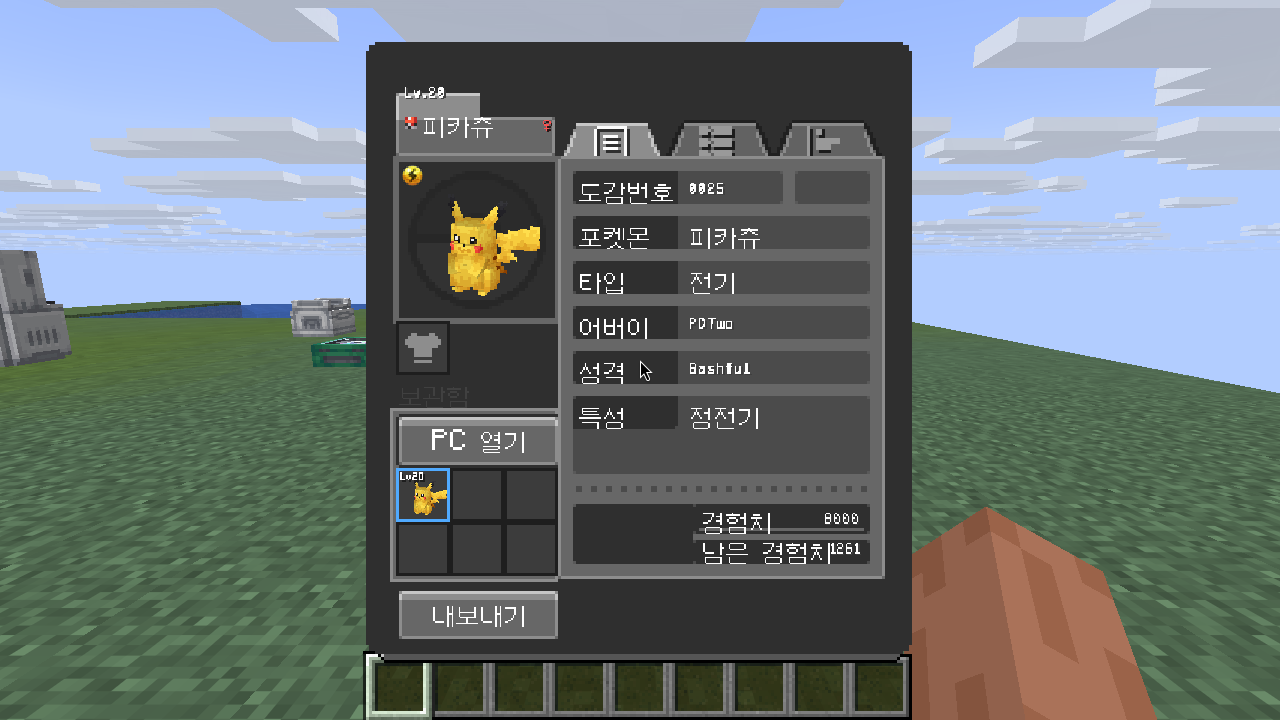
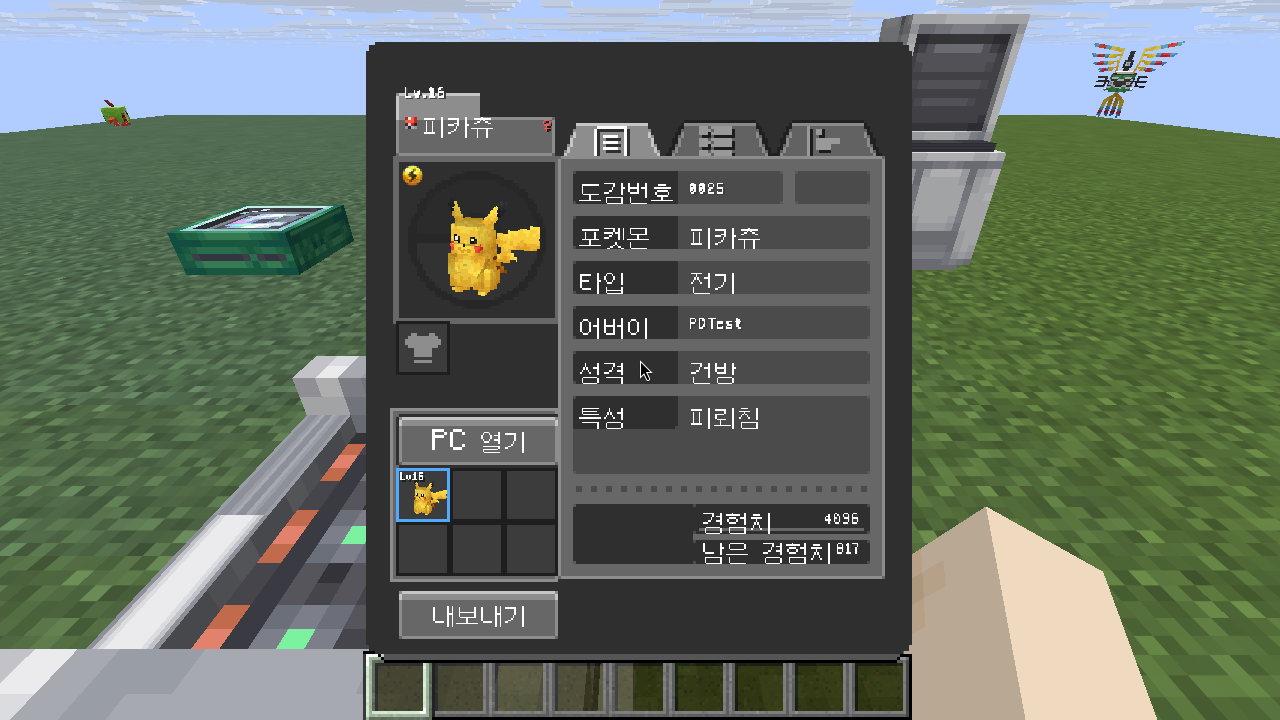
Fixes: EV berry message and no-effect, BetterModel update notice off, natures / box names / stat labels / PC info localised
Claude-Session: https://claude.ai/code/session_013qmVWfL2vttKu2B98Mqwws

diff --git a/plugin/src/main/java/io/github/kahngjoonkoh/cobblemonlink/PcScreen.java b/plugin/src/main/java/io/github/kahngjoonkoh/cobblemonlink/PcScreen.java
@@ -95,7 +95,7 @@ final class PcScreen {
             return;
         }
         boolean art = !Ui.bedrock(p) && Ui.pcWidths != null;
-        Menu m = art ? new Menu(45, title(d, v)) : new Menu(54, Component.text(boxName(d, v.box) + "  " + (v.box + 1) + "/" + d.boxes.size()));
+        Menu m = art ? new Menu(45, title(p, d, v)) : new Menu(54, Component.text(boxName(p, d, v.box) + "  " + (v.box + 1) + "/" + d.boxes.size()));
         Store.Box box = d.boxes.get(v.box);
         for (int s = 0; s < Store.BOX; s++) {
             Loc at = new Loc(v.box, s);
@@ -124,7 +124,7 @@ final class PcScreen {
                     "Show: " + (v.type == null ? "all types" : pl.dex.label("type", v.type)), List.of("Click: next type, right-click: back")), null);
             m.set(PREV, Menu.icon(Material.ARROW, Ui.tr(p, "cobblemonlink.ui.prev_box", "Previous box"), List.of()), null);
             m.set(NEXT, Menu.icon(Material.ARROW, Ui.tr(p, "cobblemonlink.ui.next_box", "Next box"), List.of()), null);
-            m.set(47, Menu.icon(Material.NAME_TAG, boxName(d, v.box), List.of("Click: rename, wallpaper")), null);
+            m.set(47, Menu.icon(Material.NAME_TAG, boxName(p, d, v.box), List.of("Click: rename, wallpaper")), null);
             if (v.selected != null && v.confirm) {
                 m.set(YES, Menu.icon(Material.LIME_WOOL, "Yes, release " + v.selected.name(pl.dex, CobblemonLink.loc(p)), List.of()), null);
                 m.set(NO, Menu.icon(Material.RED_WOOL, "No", List.of()), null);
@@ -172,9 +172,9 @@ final class PcScreen {
 
     private boolean shown(View v, Mon m) { return v.type == null || pl.dex.of(m).types.contains(v.type); }
 
-    private String boxName(Store.Data d, int box) {
+    private String boxName(Player p, Store.Data d, int box) {
         String n = d.boxes.get(box).name;
-        return n == null || n.isBlank() ? "Box " + (box + 1) : n;
+        return n == null || n.isBlank() ? Ui.lang.get(CobblemonLink.loc(p), "cobblemon.ui.pc.box.title", box + 1) : n;
     }
 
     private View view(Player p) { return views.computeIfAbsent(p.getUniqueId(), k -> new View()); }
@@ -337,7 +337,7 @@ final class PcScreen {
         if (Ui.bedrock(p) && Forms.available()) {
             List<String> names = new ArrayList<>(List.of("Default"));
             for (int i = 0; i < WALLPAPERS.size(); i++) names.add(locked(d, i) ? "???" : WALLPAPER_NAMES.get(i));
-            Forms.boxSettings(p, boxName(d, boxIndex), box.name == null ? "" : box.name, names, box.wallpaper + 1, (name, w) -> pl.onMain(() -> {
+            Forms.boxSettings(p, boxName(p, d, boxIndex), box.name == null ? "" : box.name, names, box.wallpaper + 1, (name, w) -> pl.onMain(() -> {
                 if (name != null) {
                     box.name = name.isBlank() ? null : name.strip();
                     if (box.name != null && box.name.length() > 16) box.name = box.name.substring(0, 16);
@@ -366,7 +366,7 @@ final class PcScreen {
         }), once)).build();
         ActionButton cancel = ActionButton.builder(Component.text("Cancel")).action(DialogAction.customClick((resp, who) -> pl.onMain(() -> show(p, v)), once)).build();
         p.closeInventory();
-        p.showDialog(Dialog.create(f -> f.empty().base(DialogBase.builder(Component.text(boxName(d, boxIndex))).canCloseWithEscape(true)
+        p.showDialog(Dialog.create(f -> f.empty().base(DialogBase.builder(Component.text(boxName(p, d, boxIndex))).canCloseWithEscape(true)
                 .inputs(List.of(DialogInput.text("name", Component.text("Name")).initial(box.name == null ? "" : box.name).maxLength(16).build(),
                         DialogInput.singleOption("wallpaper", Component.text("Wallpaper"), opts).build())).build())
                 .type(DialogType.confirmation(done, cancel))));
@@ -393,16 +393,16 @@ final class PcScreen {
         Runnable stay = () -> show(p, v);
         o.add(new Battle.Opt("<", "none", () -> page(p, -1)));
         o.add(new Battle.Opt(">", "none", () -> page(p, 1)));
-        o.add(new Battle.Opt(boxName(d, v.box), "none", () -> rename(p)));
+        o.add(new Battle.Opt(boxName(p, d, v.box), "none", () -> rename(p)));
         o.add(new Battle.Opt(v.type == null ? Ui.tr(p, "cobblemon.ui.pc.filter", "Filter") : pl.dex.label("type", v.type, CobblemonLink.loc(p)), "none", () -> filter(p, false)));
         o.add(new Battle.Opt(" ", v.sort < 0 ? "pc/sort_options" : "pc/sort_" + List.of("name", "level", "type", "pokedex_number", "gender").get(v.sort), () -> sort(p)));
         o.add(new Battle.Opt(sel != null && !v.confirm ? Ui.tr(p, "cobblemon.ui.pc.release", "Release") : "", "none", () -> release(p, true)));
-        o.add(new Battle.Opt(sel != null && v.confirm ? "Yes" : "", "none", () -> release(p, true)));
-        o.add(new Battle.Opt(sel != null && v.confirm ? "No" : "", "none", () -> release(p, false)));
+        o.add(new Battle.Opt(sel != null && v.confirm ? Ui.tr(p, "cobblemonlink.ui.yes", "Yes") : "", "none", () -> release(p, true)));
+        o.add(new Battle.Opt(sel != null && v.confirm ? Ui.tr(p, "cobblemonlink.ui.no", "No") : "", "none", () -> release(p, false)));
         o.add(new Battle.Opt("", "pc/wall/" + WALLPAPERS.get(box.wallpaper < 0 ? 4 : box.wallpaper), stay));
         Integer body = sel == null ? null : Ui.bodies.get(sel.model(pl.dex));
         o.add(new Battle.Opt(sel == null ? "" : "Lv. " + sel.level, body == null ? "none" : "body/" + Ui.bedrockName(sel.model(pl.dex)), stay));
-        o.add(new Battle.Opt(sel == null ? "" : sel.nature, "none", stay));
+        o.add(new Battle.Opt(sel == null ? "" : Ui.nature(p, sel.nature), "none", stay));
         o.add(new Battle.Opt(sel == null ? "" : pl.dex.label("ability", sel.ability), "none", stay));
         for (int k = 0; k < 4; k++)
             o.add(new Battle.Opt(sel == null || k >= sel.moves.size() ? "" : pl.dex.label("move", sel.moves.get(k)), "none", stay));
@@ -432,7 +432,7 @@ final class PcScreen {
 
     // ---- the picture ----
 
-    Component title(Store.Data d, View v) {
+    Component title(Player p, Store.Data d, View v) {
         Ui.Title t = new Ui.Title();
         glyph(t, 0, 0, BASE, 7);
         Store.Box box = d.boxes.get(v.box);
@@ -444,18 +444,18 @@ final class PcScreen {
         for (int i = 0; i < d.party.size(); i++) cell(t, slotX(7 + i % 2), slotY(i / 2), d.party.get(i), d.party.get(i) == v.selected);
         glyph(t, slotX(7) + 3, slotY(4) + 4, (char) (SORT + Math.max(0, v.sort)), 7);
         glyph(t, slotX(8) + 3, slotY(4) + 4, v.type == null ? FILTER_ALL : (char) (TYPE_FILTER + Ui.TYPES.indexOf(v.type)), 7);
-        text(t, "pc_label", 64, 130, boxName(d, v.box), true);
+        text(t, "pc_label", 64, 130, boxName(p, d, v.box), true);
         if (v.selected != null) {
             if (v.confirm) {
                 glyph(t, slotX(7), 131, HALF, 7);
                 glyph(t, slotX(8), 131, HALF, 7);
-                text(t, "pc_label", slotX(7) + 8.5, 134, "Yes", true);
-                text(t, "pc_label", slotX(8) + 8.5, 134, "No", true);
+                text(t, "pc_label", slotX(7) + 8.5, 134, Ui.tr(p, "cobblemonlink.ui.yes", "Yes"), true);
+                text(t, "pc_label", slotX(8) + 8.5, 134, Ui.tr(p, "cobblemonlink.ui.no", "No"), true);
             } else {
                 glyph(t, slotX(7), 131, RELEASE, 7);
-                text(t, "pc_label", slotX(7) + 17, 134, "Release", true);
+                text(t, "pc_label", slotX(7) + 17, 134, Ui.tr(p, "cobblemon.ui.pc.release", "Release"), true);
             }
-            info(t, v.selected, v.confirm);
+            info(p, t, v.selected, v.confirm);
         }
         return t.build();
     }
@@ -471,26 +471,33 @@ final class PcScreen {
     }
 
     /** The info strip: the name card (Lv tab, ball, name, gender), the whole Pokémon, Type / Nature / Ability / Moves. */
-    private void info(Ui.Title t, Mon m, boolean confirm) {
+    private void info(Player p, Ui.Title t, Mon m, boolean confirm) {
         Dex.Species s = pl.dex.of(m);
         text(t, "pc_bold", 7, 147, "Lv." + m.level, false);
         glyph(t, 5, 155, BALL, 6);
-        text(t, "pc_bold", 12, 155, confirm ? "Release?" : m.name(pl.dex), false);
+        text(t, "pc_bold", 12, 155, confirm ? Ui.tr(p, "cobblemonlink.ui.release_q", "Release?") : m.name(pl.dex, CobblemonLink.loc(p)), false);
         if (!m.gender.isEmpty()) glyph(t, 48, 157, "M".equals(m.gender) ? MALE : FEMALE, 4);
         Integer b = Ui.bodies.get(m.model(pl.dex));
         if (b != null) put(t, 6, 166, Component.text(Character.toString(0xF9000 + b)).font(Key.key("cobblemonlink", "body_big")), 45, 7);
-        String typeNames = String.join(" / ", s.types.stream().map(ty -> pl.dex.label("type", ty)).toList());
-        String[][] rows = {{"Type", typeNames}, {"Nature", m.nature}, {"Ability", pl.dex.label("ability", m.ability)},
-                {"Moves", String.join(", ", m.moves.stream().map(mv -> pl.dex.label("move", mv)).toList())}};
+        String loc = CobblemonLink.loc(p), typeNames = String.join(" / ", s.types.stream().map(ty -> pl.dex.label("type", ty, loc)).toList());
+        String[][] rows = {{Ui.tr(p, "cobblemon.ui.info.type", "Type"), typeNames}, {Ui.tr(p, "cobblemon.ui.info.nature", "Nature"), Ui.nature(p, m.nature)},
+                {Ui.tr(p, "cobblemon.ui.info.ability", "Ability"), pl.dex.label("ability", m.ability, loc)},
+                {Ui.tr(p, "cobblemon.ui.moves", "Moves"), String.join(", ", m.moves.stream().map(mv -> pl.dex.label("move", mv, loc)).toList())}};
         for (int i = 0; i < rows.length; i++) {
             int y = 152 + 3 + 15 * i;
-            text(t, "pc_bold", 57, y, rows[i][0], false);
-            String value = fit("pc_text", plain(rows[i][1]), 121 - (i == 0 ? 16 : 0));
-            text(t, "pc_text", 57, y + 7, value, false);
+            boolean wide = (rows[i][0] + rows[i][1]).chars().anyMatch(c -> Ui.wide((char) c));
+            String value = fit("pc_text", rows[i][1], 121 - (i == 0 ? 16 : 0) - (wide ? (int) Ui.width(rows[i][0]) + 6 : 0));
+            if (wide) { // Minecraft's font is too tall for two lines a row: label and value side by side
+                text(t, "pc_bold", 57, y + 3, rows[i][0], false);
+                text(t, "pc_text", 57 + Ui.width(rows[i][0]) + 6, y + 3, value, false);
+            } else {
+                text(t, "pc_bold", 57, y, rows[i][0], false);
+                text(t, "pc_text", 57, y + 7, value, false); // text() plains it
+            }
             if (i == 0) {
-                double x = 57 + width("pc_text", value) + 3;
+                double x = 57 + (wide ? Ui.width(rows[i][0]) + 6 : 0) + width("pc_text", value) + 3;
                 for (String ty : s.types) {
-                    glyph(t, x, y + 7, (char) (TYPE_INFO + Ui.TYPES.indexOf(ty)), 7);
+                    glyph(t, x, y + (wide ? 3 : 7), (char) (TYPE_INFO + Ui.TYPES.indexOf(ty)), 7);
                     x += 8;
                 }
             }
@@ -534,6 +541,7 @@ final class PcScreen {
     /** Width as text() lays it out: each advance less 1. */
     static double width(String font, String s) {
         double w = 0;
+        if (s.chars().anyMatch(c -> Ui.wide((char) c))) return Ui.width(s); // text() draws it all in Minecraft's font
         for (char c : s.toCharArray()) w += width(font, c) - 1;
         return w;
     }

diff --git a/plugin/src/main/java/io/github/kahngjoonkoh/cobblemonlink/SummaryScreen.java b/plugin/src/main/java/io/github/kahngjoonkoh/cobblemonlink/SummaryScreen.java
@@ -230,6 +230,7 @@ final class SummaryScreen {
             PAGE_STATS = '', MOVE = '', MOVE_SEL = '', EVOLVE_PLATE = '', PLATE = '', SHINY = '', // build_summary.py
             BALL = '', MALE = '', FEMALE = '', RING = '', TYPE_INFO = '', BAR = ''; // build_pc.py, build_dex.py
     private static final String[] SHORT = {"HP", "Atk", "Def", "SpA", "SpD", "Spe"};
+    private static final String[] SHORT_KEYS = {"hp", "atk", "def", "sp_atk", "sp_def", "speed"}; // cobblemonlink.ui.stat_short.*: Cobblemon's own labels are too wide for the column
     private static final java.util.Map<java.util.UUID, Integer> picked = new java.util.HashMap<>(); // Moves: the move to swap
 
     private static boolean art(Player p) {
@@ -406,16 +407,16 @@ final class SummaryScreen {
                 for (int k = 0; k < 6; k++) {
                     int ry = py + 5 + 17 * k;
                     int n = nature(m.mint != null ? m.mint : m.nature, k);
-                    PcScreen.text(t, "pc_bold", px + 7, ry + 4, SHORT[k] + (n > 0 ? "+" : n < 0 ? "-" : ""), false);
+                    PcScreen.text(t, "pc_bold", px + 7, ry + 4, Ui.tr(p, "cobblemonlink.ui.stat_short." + SHORT_KEYS[k], SHORT[k]) + (n > 0 ? "+" : n < 0 ? "-" : ""), false);
                     PcScreen.text(t, "pc_text", px + 44, ry + 4, (k == 0 ? m.hp(pl.dex) + "/" : "") + st[k], false);
                     int w = Math.max(1, Math.min(22, st[k] * 22 / Math.max(1, most))); // the strongest stat fills it
                     if (k > 0) PcScreen.glyph(t, px + 62, ry + 5, (char) (BAR + w - 1), 3);
                     PcScreen.text(t, "pc_text", px + 104 - PcScreen.width("pc_text", "IV " + m.ivs[k]), ry + 4, "IV " + m.ivs[k], false);
                 }
-                PcScreen.text(t, "pc_bold", px + 7, py + 110, "Nature: " + m.nature, false);
+                PcScreen.text(t, "pc_bold", px + 7, py + 110, Ui.tr(p, "cobblemon.ui.info.nature", "Nature") + ": " + Ui.nature(p, m.mint != null ? m.mint : m.nature), false);
                 int up = 0, down = 0;
                 for (int k = 1; k < 6; k++) { if (nature(m.mint != null ? m.mint : m.nature, k) > 0) up = k; if (nature(m.mint != null ? m.mint : m.nature, k) < 0) down = k; }
-                PcScreen.text(t, "pc_text", px + 7, py + 118, up == 0 ? "No stat changes" : "Raises " + STAT_NAMES[up] + ", lowers " + STAT_NAMES[down], false);
+                PcScreen.text(t, "pc_text", px + 7, py + 118, up == 0 ? Ui.tr(p, "cobblemonlink.ui.nature_neutral", "No stat changes") : Ui.lang.get(CobblemonLink.loc(p), "cobblemonlink.ui.nature_effect", statName(p, up), statName(p, down)), false);
             }
             default -> {
                 PcScreen.glyph(t, px, py, PAGE_INFO, 7);

diff --git a/plugin/src/main/java/io/github/kahngjoonkoh/cobblemonlink/Items.java b/plugin/src/main/java/io/github/kahngjoonkoh/cobblemonlink/Items.java
@@ -222,6 +222,10 @@ final class Items {
             }
             pickPokemon(p, pl.t(p, "cobblemonlink.item.give_to", name(p, id)), party, m -> true, m -> {
                 if (!stack.isSimilar(p.getInventory().getItemInMainHand())) return;
+                if (d.kind.equals("berry") && d.stat != null && !canUse(d, m)) { // nothing to lower: says so, keeps the berry
+                    p.sendMessage(Component.text(pl.t(p, "cobblemonlink.item.no_effect"), NamedTextColor.RED));
+                    return;
+                }
                 if (d.kind.equals("berry") && canUse(d, m)) { // a berry it can eat now is eaten
                     if (d.pp > 0) pickMove(p, d.name, m, move -> apply(p, null, id, d, m, move));
                     else apply(p, null, id, d, m, null);
@@ -311,7 +315,7 @@ final class Items {
             case "berry" -> !fainted && (d.heal > 0 || d.ratio > 0 ? m.hp(dex) < m.maxHp(dex)
                     : !d.cure.isEmpty() ? d.cure.contains(m.status)
                     : d.pp > 0 ? m.pp != null && m.ppMax != null && !m.pp.equals(m.ppMax)
-                    : m.ev(java.util.Arrays.asList(Dex.STATS).indexOf(d.stat)) > 0 || m.friendship(dex) < 255);
+                    : m.ev(java.util.Arrays.asList(Dex.STATS).indexOf(d.stat)) > 0); // no EVs to lower: no effect, as Cobblemon
             case "ability_capsule" -> { // the other standard ability; not from a hidden one
                 List<String> a = dex.of(m).abilities;
                 yield a.size() > 1 && a.contains(m.ability);
@@ -398,7 +402,7 @@ final class Items {
                 int before = m.evs[k];
                 m.evs[k] = Math.max(0, before + d.amount);
                 m.addFriendship(dex, f < 100 ? 10 : f < 200 ? 5 : 2);
-                return pl.t(p, "cobblemon.interaction.ev.deduct", name, SummaryScreen.statName(p, k), before - m.evs[k]);
+                return pl.t(p, "cobblemonlink.item.ev_down", name, SummaryScreen.statName(p, k), before - m.evs[k]);
             }
             case "ability_capsule", "ability_patch" -> {
                 List<String> a = dex.of(m).abilities;

diff --git a/plugin/src/main/java/io/github/kahngjoonkoh/cobblemonlink/Ui.java b/plugin/src/main/java/io/github/kahngjoonkoh/cobblemonlink/Ui.java
@@ -112,6 +112,11 @@ final class Ui {
         return lang.getOr(CobblemonLink.loc(p), key, english);
     }
 
+    /** A nature ("Bashful") in the player's language: Cobblemon's cobblemon.nature.<id>. */
+    static String nature(org.bukkit.entity.Player p, String nature) {
+        return nature == null ? "" : tr(p, "cobblemon.nature." + nature.toLowerCase(java.util.Locale.ROOT), nature);
+    }
+
     /** A look's name in Bedrock texture paths: long ones shortened like build_bedrock_ui.py's short() (paths under 80). */
     static String bedrockName(String name) {
         if (name.length() <= 40) return name;

diff --git a/PARITY.md b/PARITY.md
@@ -75,7 +75,7 @@ Counts: see [the summary at the end](#summary).
 | Egg and tutor moves | ✓ | — | ⬜ | ⬜ |
 | Natures, mints | ✓ | Random nature; 21 mints change the effective nature | ✅ | ✅ |
 | IVs | ✓ | ✓ | ✅ | ✅ |
-| Hidden abilities | From snacks / Ability Patch | The Ability Patch gives the hidden ability, the Ability Capsule swaps the standard two ([evidence](docs/evidence/m11-java-ability-patch-berries.png)); no Poké Snacks | 🟡 | 🟡 |
+| Hidden abilities | From snacks / Ability Patch | The Ability Patch gives the hidden ability, the Ability Capsule swaps the standard two (verified live on Java: "Pikachu's ability changed to Lightning Rod!"); no Poké Snacks | 🟡 | 🟡 |
 | Level evolutions | ✓ | ✓, evolved from the Summary like Cobblemon | ✅ | ✅ |
 | Stone, trade, friendship, held-item, time, biome, move evolutions | ✓ | Items (stones, apples, Link Cable…) evolve at once; friendship, time, biome, held item, moves, party, stats, moon, weather become the pending evolution; no trades yet, nor defeat / use-move / distance / structure ones | 🟡 | 🟡 |
 | Party of 6 | ✓ | ✓ | ✅ | ✅ |
@@ -102,7 +102,7 @@ Counts: see [the summary at the end](#summary).
 | Trading | ✓ | `/trade <player>`, a chest of both parties: offer, ready, swap; trade evolutions on arrival; party only (no PC) | 🟡 | 🟡 |
 | Fishing (Poké Rods, bait, Lure) | 48 rods, 603 spawn entries | All 48 rods (cast model on Java); 600 fishing spawns with Lure level and rod type; 85% Pokémon per bite, lobbed in under 90 kg; Lure Ball; no bait | 🟡 | 🟡 |
 | NPCs and dialogues | ✓ | — | ⬜ | ⬜ |
-| Pokémon interactions (feeding, items on Pokémon) | 167 | Items used from the hand on a party Pokémon: medicine, candies, vitamins, feathers, mints, stones, Ability Capsule / Patch, berries (Oran, Sitrus, status berries, Leppa, EV-lowering berries), held items; not on the Pokémon out in the world | 🟡 | 🟡 |
+| Pokémon interactions (feeding, items on Pokémon) | 167 | Items used from the hand on a party Pokémon: medicine, candies, vitamins, feathers, mints, stones, Ability Capsule / Patch, berries (Oran, Sitrus, status berries, Leppa, EV-lowering berries; [evidence](docs/evidence/m11-java-ev-berries.png)), held items; not on the Pokémon out in the world | 🟡 | 🟡 |
 | Cries and emotes | ✓ | Cobblemon's sounds on both clients (a Java pack, a Bedrock pack through Geyser): cries on battle start and send-out, wild / PvP battle music, Poké Ball hit / open / shake / capture / break, evolution, Healing Machine, PC; no emotes | 🟡 | 🟡 |
 | Fossils, Fossil Analyzer, Restoration Tank | 15 | The 15 fossils (from mining stone) revive in the Restoration Tank block after 12 minutes, one or a pair, and come out wild; the Analyzer is decoration | 🟡 | 🟡 |
 | Berries and berry trees | 70 | Held berries work in battle; healing, status, Leppa and EV-lowering berries can be fed out of battle (and healing ones used from the bag); berries drop from sweet berry bushes; no berry trees or mulch | 🟡 | 🟡 |
@@ -120,7 +120,7 @@ Counts: see [the summary at the end](#summary).
 
 | Feature | Cobblemon 1.8.2 | cobblemon-link | Java | Bedrock |
 |---|---|---|---|---|
-| Multi-language (each player's client language, en_us fallback) | 29 languages | Cobblemon's 29 lang files plus the plugin's own keys (en_us, ko_kr), rendered per player: species, moves, abilities, types, natures, stats, items, the battle, item use, trading, challenges, EXP / evolution messages, and the Summary, PC, Pokédex and move-learning screens (Java's art fonts fall back to Minecraft's font for Korean/CJK). Still English: the starter screen's art, some PC and Pokédex art labels, the Bedrock party HUD (ASCII field) | 🟡 | 🟡 |
+| Multi-language (each player's client language, en_us fallback) | 29 languages | Cobblemon's 29 lang files plus the plugin's own keys (en_us, ko_kr), rendered per player: species, moves, abilities, types, natures, stats, items, the battle, item use, trading, challenges, EXP / evolution messages, and the Summary, PC, Pokédex and move-learning screens (Java's art fonts fall back to Minecraft's font for Korean/CJK; [Summary](docs/evidence/m8-java-korean-summary.png), [stats](docs/evidence/m8-java-korean-summary-stats.png), [PC](docs/evidence/m8-java-korean-pc.png)). Still English: the starter screen's art, some PC and Pokédex art labels, the Bedrock party HUD (ASCII field) | 🟡 | 🟡 |
 
 ## Commands
 
